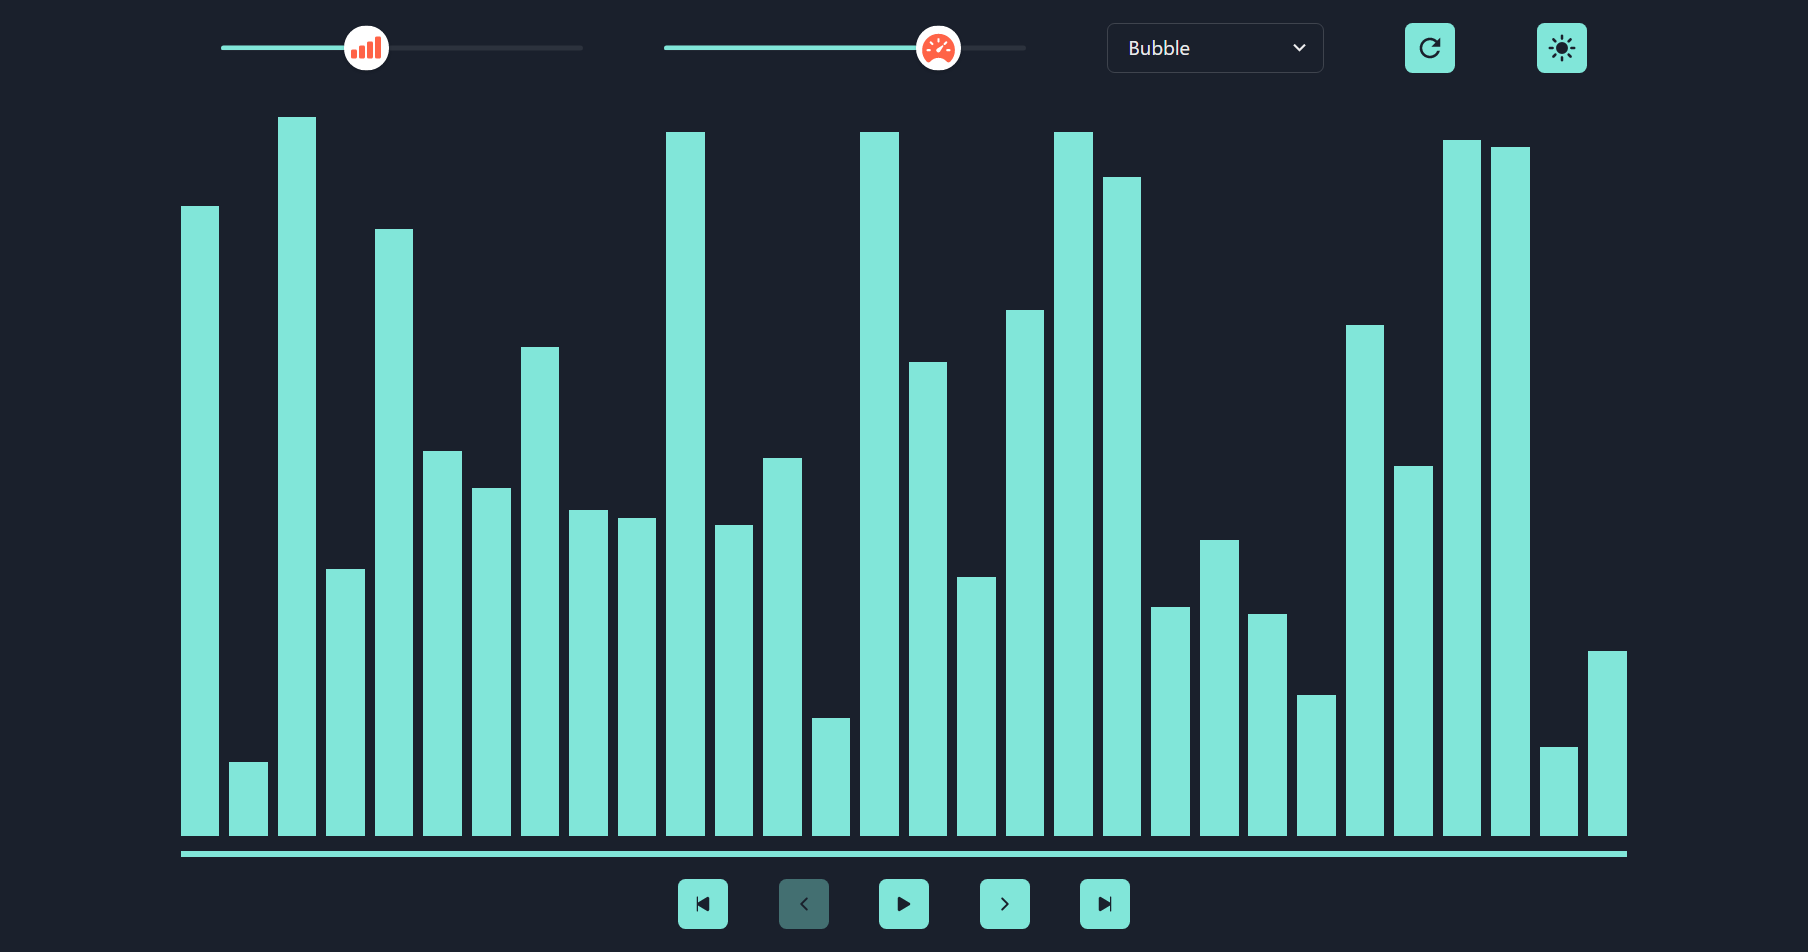
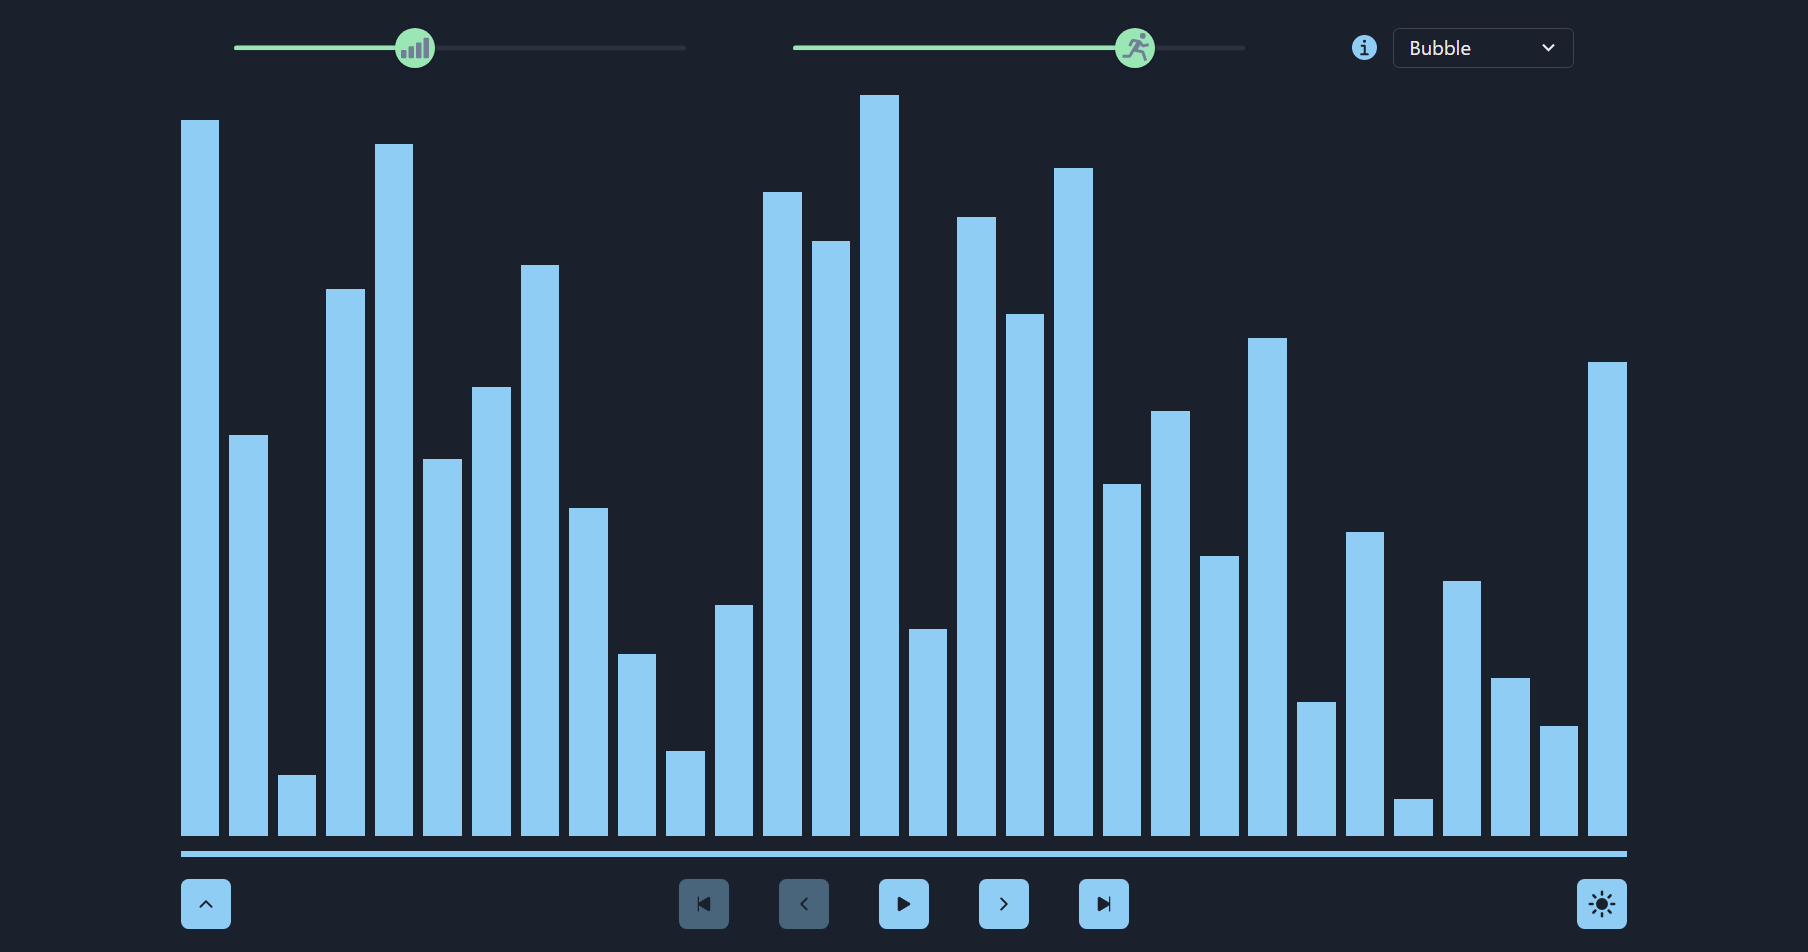
update readme and readme images

diff --git a/README.md b/README.md
@@ -6,7 +6,7 @@
 
 ## Description
 
-The Sorting Visualizer is a learning tool for Computer Science gurus and novices alike! By manipulating the intuitive controls, users can choose between six different sorts, start and stop the animation, slow the animation speed, and much more! The Sorting Visualizer if a fully front-end application with no shortage of options and applications for use. Check out the deployed application at https://glendonintendo.github.io/sorting-visualizer/.
+The Sorting Visualizer is a learning tool for Computer Science gurus and novices alike! By manipulating the intuitive controls, users can choose between seven different sorts, start and stop the animation, slow the animation speed, and much more! The Sorting Visualizer if a fully front-end application with no shortage of options and applications for use. Check out the deployed application at https://glendonintendo.github.io/sorting-visualizer/.
 
 ![sorting visualizer](readme-images/sorting-visualizer.png)
 
@@ -23,11 +23,13 @@ Iconography and intuitive user controls were used to provide a seamless user exp
 
 The top navigation provides different options for the visualizer. From left to right:
 - The two sliders control the amount of bars that appear in the visualizer and the speed of the animation. 
-- The drop down menu allows for users to choose between different types of sorts. 
-- The reset button will stop the animation and generate an entirely new array.
-- The sun/moon button will allow users to switch between light and dark mode.
+- The information icon will open a modal with information on the selected sort.
+- The drop down menu allows for users to choose between different types of sorts.
 
-The bottom bar is the controller for the visualizer. Users can start, stop, step forward and backward, and set the visualizer to the beginning and end animations.
+The bottom bar is the controller for the visualizer. Users can start, stop, step forward and backward, and set the visualizer to the beginning and end animations. From left to right:
+- The array options menu allows the user to create new data sets in variety of starting states as well as shuffle the current data set.
+- The middle five icons are the controller for the animation. In order, they allow the player to skip to the first animation, step back one animation, play/pause the animations, step forward one animation, and skip to the last animation.
+- The sun/moon button will allow users to switch between light and dark mode.
 
 
 Users can switch between dark and light mode for a different visual experience.
@@ -36,3 +38,12 @@ Users can switch between dark and light mode for a different visual experience.
 
 Users can manipulate the controls to show the animation, change the amount of bars in the visualizer, and slow the animation down.
 ![controls manipulated in visualizer](readme-images/sorted.png)
+
+Users can change the characteristics of the data set. Switching between sorts can show how sorts perform different based on the original data set.
+![data set options](readme-images/array-options.png)
+
+Users can get additional information about sorts including time and space complexity, pseudocode, and use cases.
+![additional sort info](readme-images/sort-info-modal.png)
+
+The app was developed using mobile-first, UX, and accessibility methodologies for a universally exceptional experience.
+![sorting visualizer on mobile](readme-images/mobile-first.png)
